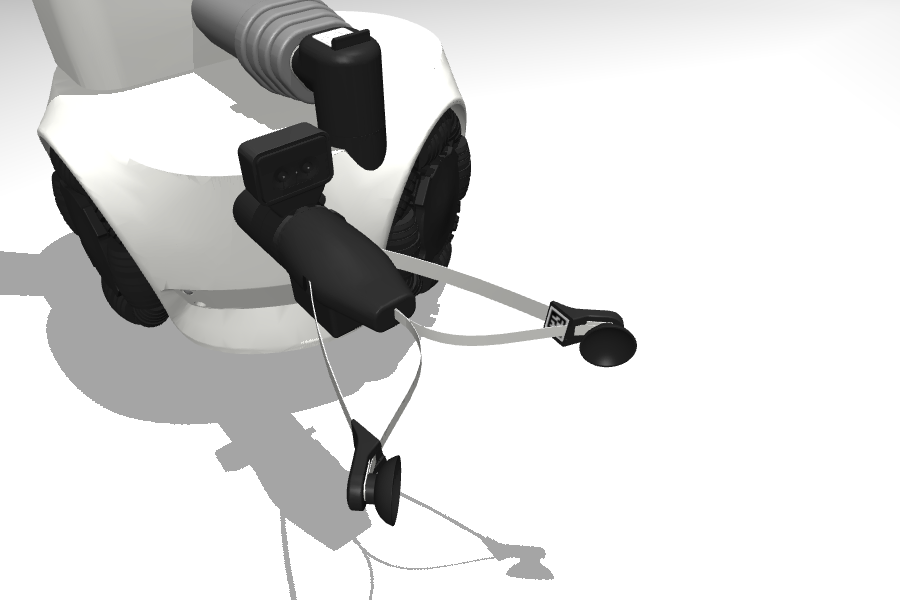
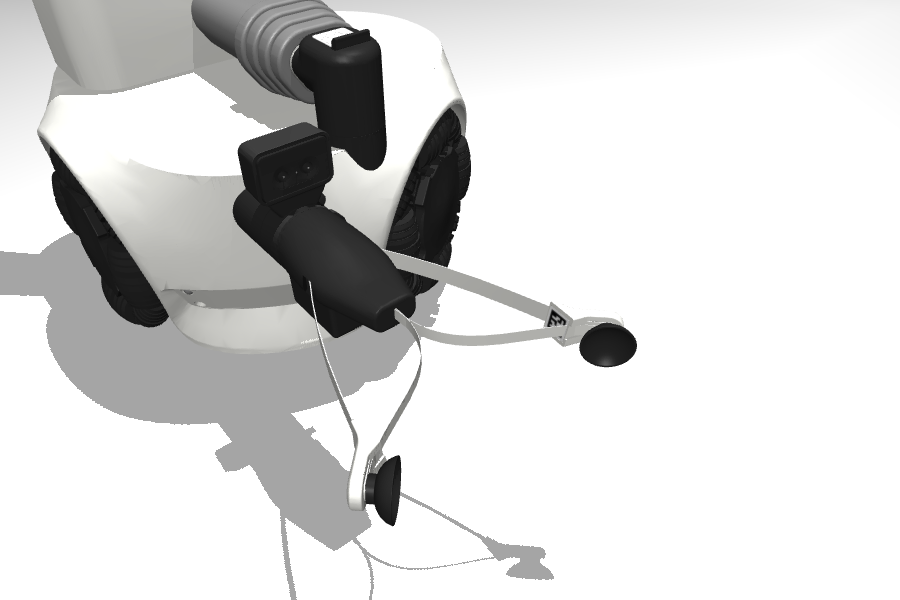
SG4 aruco holders are now white

Changed region(s): [[0.3733, 0.69, 0.4356, 0.87], [0.5911, 0.51, 0.7156, 0.6]]

diff --git a/stretch4_mujoco/models/stretch_4/mjcf_generator.py b/stretch4_mujoco/models/stretch_4/mjcf_generator.py
@@ -54,6 +54,8 @@ PARALLEL_GRIPPER_SCREW_MATERIAL = {
     "specular": "1",
     "shininess": "0.8",
 }
+# The SG4 fingertip's ArUco tag holder, printed in the body's off-white.
+STANDARD_GRIPPER_TAG_HOLDER_RGBA = "0.9 0.9 0.88 1"
 
 
 def generate_mjcf(urdf_path: str, out_mjcf_path: str=None):
@@ -315,9 +317,10 @@ def generate_mjcf(urdf_path: str, out_mjcf_path: str=None):
     # 7b. Texture the head so its cameras and lidar domes are not body white.
     texture_head(asset, worldbody, urdf, out_mjcf_path.parent)
 
-    # 7c. Print the fingertip ArUco tags and two-tone the PG4 fingers.
+    # 7c. Print the fingertip ArUco tags and colour each tool's fingers.
     texture_aruco_tags(asset, worldbody, urdf, out_mjcf_path.parent)
     color_parallel_gripper_fingers(asset, worldbody, out_mjcf_path.parent)
+    color_standard_gripper_fingertips(asset, worldbody, urdf, out_mjcf_path.parent)
 
     # 8. Modify Mast to use appropriate collision mass
     mast = find_body("mast_link")
@@ -639,6 +642,54 @@ def color_parallel_gripper_fingers(
         screws_geom.attrib.pop("rgba", None)
         screws_geom.set("material", PARALLEL_GRIPPER_SCREW_MATERIAL["name"])
         body.insert(list(body).index(black_geom) + 1, screws_geom)
+
+
+def color_standard_gripper_fingertips(
+    asset: ET.Element, worldbody: ET.Element, urdf: yourdfpy.URDF, model_dir: Path
+) -> None:
+    """
+    Draw each SG4 fingertip's ArUco tag holder white against its black pad.
+
+    The fingertip's visual geom keeps its name and black rgba but is pointed at
+    the pad alone; a second visual geom carries the holder. Tools without the
+    SG4 fingertips are left untouched.
+
+    Args:
+        asset: The MJCF <asset> element; gains a holder mesh per fingertip.
+        worldbody: The MJCF <worldbody> element holding the fingertip geoms.
+        urdf: The URDF the MJCF was generated from, for the tag positions.
+        model_dir: Directory the generated STL files are written to.
+
+    Returns:
+        None.
+    """
+    for side in ("left", "right"):
+        link = f"gripper_fingertip_{side}_link"
+        tag_link = f"aruco_fingertip_{side}_link"
+        mesh = asset.find(f"mesh[@name='{link}']")
+        geom = worldbody.find(f".//geom[@mesh='{link}']")
+        body = worldbody.find(f".//body[@name='{link}']")
+        if mesh is None or geom is None or body is None or tag_link not in urdf.link_map:
+            continue
+
+        tag_position = urdf.get_transform(tag_link, link)[:3, 3]
+        holder, pad = gripper_texture.split_standard_gripper_fingertip(
+            mesh.get("file"), tag_position
+        )
+        pad_path = model_dir / f"autogenerated_{link}_pad.stl"
+        holder_path = model_dir / f"autogenerated_{link}_tag_holder.stl"
+        pad.export(pad_path)
+        holder.export(holder_path)
+
+        mesh.set("file", str(pad_path))
+        holder_mesh = f"{link}_tag_holder"
+        ET.SubElement(asset, "mesh", name=holder_mesh, file=str(holder_path))
+
+        holder_geom = ET.Element("geom", dict(geom.attrib))
+        holder_geom.set("mesh", holder_mesh)
+        holder_geom.set("name", f"{holder_mesh}_visual")
+        holder_geom.set("rgba", STANDARD_GRIPPER_TAG_HOLDER_RGBA)
+        body.insert(list(body).index(geom) + 1, holder_geom)
 
 
 def generate_contact_xml(model_dir: Path, body_names: set[str], is_parallel_gripper: bool):

diff --git a/stretch4_mujoco/models/stretch_4/gripper_texture.py b/stretch4_mujoco/models/stretch_4/gripper_texture.py
@@ -11,6 +11,9 @@ screws holding the fin-ray into the base block, and a thin black grip strip
 skinned over the fin-ray's inner face and around its tip.
 `split_parallel_gripper_finger` sorts those shells into a blue, a black and a
 steel mesh so each can carry its own colour.
+
+The SG4 fingertip is one STL holding two shells: the black pad and the white
+holder the ArUco tag sits on. `split_standard_gripper_fingertip` separates them.
 """
 
 from __future__ import annotations
@@ -313,3 +316,43 @@ def split_parallel_gripper_finger(stl_path: str | Path) -> FingerParts:
     )
     screws = trimesh.util.concatenate(steel) if steel else None
     return FingerParts(fin_ray, black, screws)
+
+
+def split_standard_gripper_fingertip(
+    stl_path: str | Path, tag_position: np.ndarray
+) -> tuple[trimesh.Trimesh, trimesh.Trimesh]:
+    """
+    Split an SG4 fingertip mesh into its ArUco tag holder and its pad.
+
+    The holder is the shell whose bounding box lies nearest the tag; every
+    other shell is the pad.
+
+    Args:
+        stl_path: The SG4 gripper_fingertip_{left,right}_link visual mesh.
+        tag_position: The tag link's origin in the fingertip frame, in metres.
+
+    Returns:
+        The holder mesh and the pad mesh, in the fingertip frame.
+    """
+    mesh = trimesh.load(stl_path, process=True)
+    parts = mesh.split(only_watertight=False)
+    if len(parts) < 2:
+        raise ValueError(f"{stl_path} does not split into a tag holder and a pad.")
+
+    def box_distance(part: trimesh.Trimesh) -> float:
+        """
+        Distance from the tag to a shell's bounding box, zero inside it.
+
+        Args:
+            part: One shell of the fingertip mesh.
+
+        Returns:
+            The distance in metres.
+        """
+        low, high = part.bounds
+        outside = np.maximum(low - tag_position, tag_position - high)
+        return float(np.linalg.norm(np.maximum(0.0, outside)))
+
+    holder = min(parts, key=box_distance)
+    pad = trimesh.util.concatenate([p for p in parts if p is not holder])
+    return holder, pad
